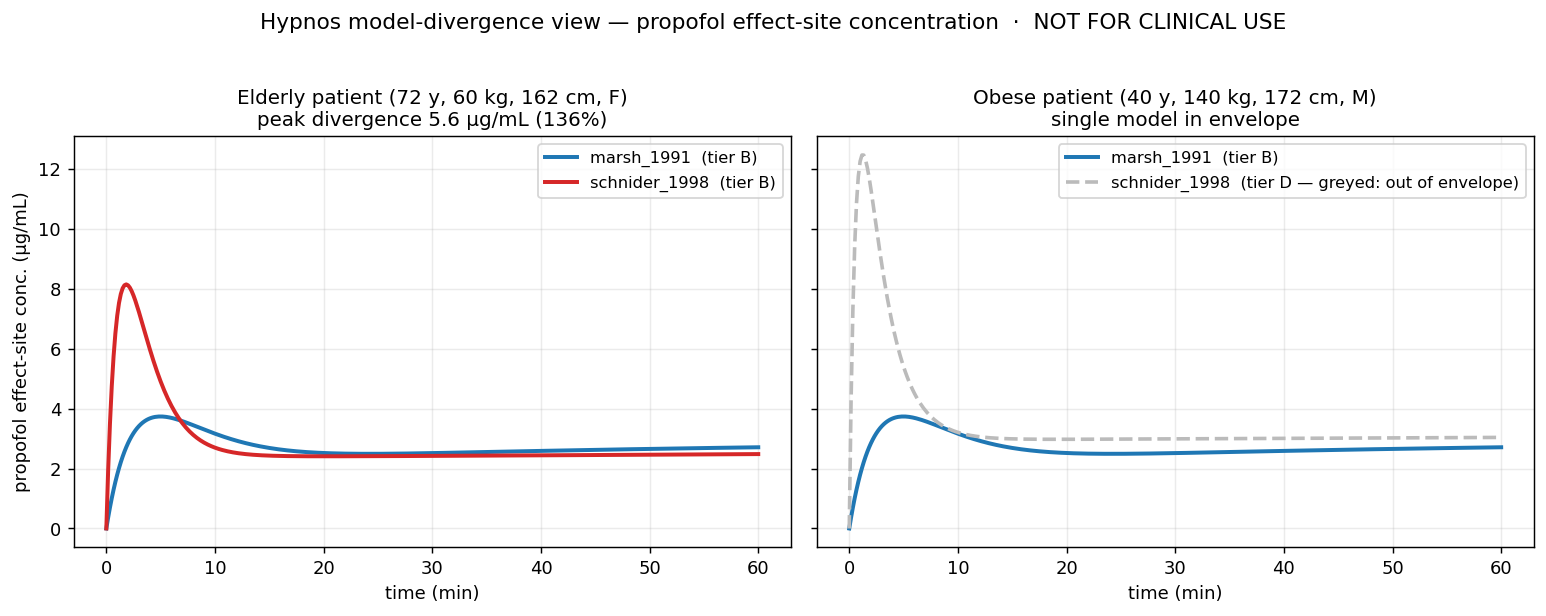
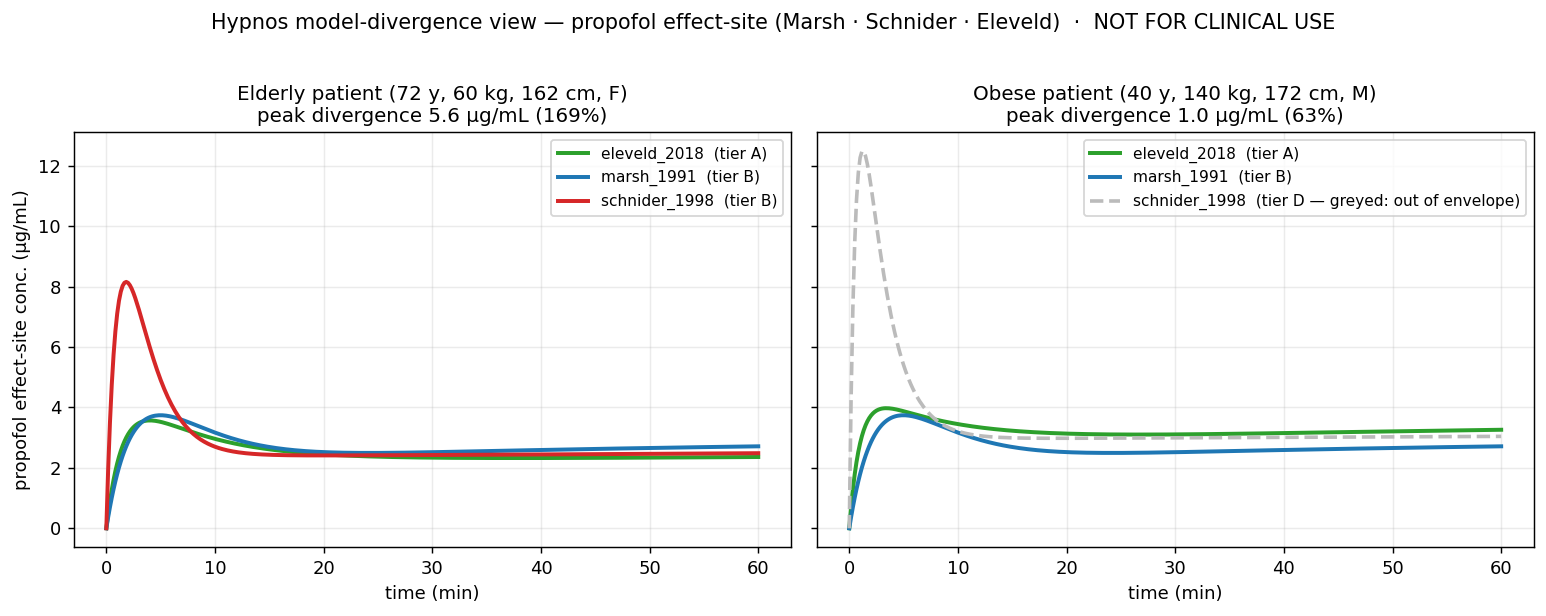
Implement the Eleveld 2018 propofol kernel (the named highest-leverage item)
The README named promoting Eleveld from a curated record to an executable kernel
as "the highest-leverage next contribution" and it was the last kernel-pending
propofol model (the original Phase A trio was Marsh/Schnider/Eleveld). Done.

Kernel:
- propofol_eleveld_2018: full general-purpose covariate model (allometric LBW
  scaling, post-menstrual-age maturation sigmoids, Al-Sallami FFM, sex, opiate
  co-administration, arterial/venous). Transcribed from the published equations
  and cross-checked verbatim against the open `tci` R package (pkmod_eleveld_ppf).
- Validated to reproduce the reference individual (35 y, 70 kg, 170 cm, male, no
  concomitant anaesthetics) EXACTLY: V1=6.28, V2=25.5, V3=273, CL=1.79, Q3=1.11,
  ke0=0.146 (computed Q2~1.83 carries the maturation term).
- review_status stays `unverified`: validating one reference point is not a human
  PDF verification, and the maturation/allometry terms are where transcription
  errors hide. This is the project's gate, applied to its own author.

Why implementing (not promoting) is consistent with "humans verify; LLMs do not
promote": the rule governs review_status, not kernel code. Every other kernel is
likewise LLM-implemented and `unverified`. The Eleveld deferral was a transcription
*risk* decision; web-verifying against an authoritative implementation + exact
reference validation retires that risk while leaving the human gate intact.

Ripple effects (behavior genuinely changed — Eleveld now simulates):
[…]

diff --git a/python/hypnos/export/registry.py b/python/hypnos/export/registry.py
@@ -10,6 +10,7 @@ kernel binding resolves to a function registered in :data:`KERNELS`.
 """
 from __future__ import annotations
 
+import math
 import re
 from typing import Callable, Dict
 
@@ -128,10 +129,81 @@ def dexmedetomidine_hannivoort_2015(patient: dict) -> MicroParams:
     )
 
 
+# --------------------------------------------------------------------------- #
+# Propofol — Eleveld (2018): general-purpose model, broad covariate structure
+# --------------------------------------------------------------------------- #
+def propofol_eleveld_2018(patient: dict) -> MicroParams:
+    """Eleveld 2018 general-purpose propofol PK model (PK arm, arterial sampling).
+
+    Transcribed from the published equations (cross-checked against the ``tci`` R
+    package, ``pkmod_eleveld_ppf``) and validated to reproduce the reference
+    individual (35 y, 70 kg, 170 cm, male, no concomitant anaesthetics):
+    V1=6.28, V2=25.5, V3=273, CL=1.79, Q3=1.11, ke0=0.146. The model record's
+    ``review_status`` remains ``unverified`` pending human PDF confirmation.
+    """
+    age = _req(patient, "age")
+    wgt = _req(patient, "weight")
+    hgt = _req(patient, "height")
+    male = 1.0 if str(patient.get("sex", "M")).upper().startswith("M") else 0.0
+    opiate = bool(patient.get("opiate_coadministration", False))
+    arterial = bool(patient.get("arterial", True))
+    pma = patient.get("postmenstrual_age")
+    if pma is None:
+        pma = age + 40.0 / 52.0
+
+    # fixed effects (theta), 1-indexed to match the source for readability
+    th = [None, 6.28, 25.5, 273.0, 1.79, 1.75, 1.11, 0.191, 42.3, 9.06, -0.0156,
+          -0.00286, 33.6, -0.0138, 68.3, 2.10, 1.30, 1.42, 0.68]
+    ke0_arterial, ke0_venous = 0.146, 1.24
+
+    AGEref, WGTref, HGTref = 35.0, 70.0, 170.0
+    PMAref = AGEref + 40.0 / 52.0
+    bmi = 10000.0 * wgt / (hgt * hgt)
+    bmiref = 10000.0 * WGTref / (HGTref * HGTref)
+
+    def faging(x: float) -> float:
+        return math.exp(x * (age - AGEref))
+
+    def fsig(x: float, e50: float, lam: float) -> float:
+        return x ** lam / (x ** lam + e50 ** lam)
+
+    def fcentral(x: float) -> float:
+        return fsig(x, th[12], 1.0)
+
+    def fopiates(x: float) -> float:
+        return math.exp(x * age) if opiate else 1.0
+
+    fcl_mat = fsig(pma * 52.0, th[8], th[9])
+    fcl_mat_ref = fsig(PMAref * 52.0, th[8], th[9])
+    fq3_mat = fsig(age * 52.0 + 40.0, th[14], 1.0)
+    fq3_mat_ref = fsig(AGEref * 52.0 + 40.0, th[14], 1.0)
+
+    if male:
+        ffm = (0.88 + (1 - 0.88) / (1 + (age / 13.4) ** (-12.7))) * (9270 * wgt) / (6680 + 216 * bmi)
+    else:
+        ffm = (1.11 + (1 - 1.11) / (1 + (age / 7.1) ** (-1.1))) * (9270 * wgt) / (8780 + 244 * bmi)
+    ffm_ref = (0.88 + (1 - 0.88) / (1 + (AGEref / 13.4) ** (-12.7))) * (9270 * WGTref) / (6680 + 216 * bmiref)
+
+    v1_art = th[1] * fcentral(wgt) / fcentral(WGTref)
+    V1 = v1_art if arterial else v1_art * (1 + th[17] * (1 - fcentral(wgt)))
+    V2 = th[2] * wgt / WGTref * faging(th[10])
+    V3 = th[3] * (ffm / ffm_ref) * fopiates(th[13])
+    CL = (male * th[4] + (1 - male) * th[15]) * (wgt / WGTref) ** 0.75 * (fcl_mat / fcl_mat_ref) * fopiates(th[11])
+    q2_art = th[5] * (V2 / th[2]) ** 0.75 * (1 + th[16] * (1 - fq3_mat))
+    Q2 = q2_art if arterial else q2_art * th[18]
+    Q3 = th[6] * (V3 / th[3]) ** 0.75 * (fq3_mat / fq3_mat_ref)
+    ke0 = (ke0_arterial if arterial else ke0_venous) * (wgt / 70.0) ** (-0.25)
+
+    return MicroParams.from_volumes_clearances(
+        V1=V1, Cl1=CL, V2=V2, Cl2=Q2, V3=V3, Cl3=Q3, ke0=ke0
+    )
+
+
 KERNELS: Dict[str, KernelFn] = {
     "propofol_marsh_1991": propofol_marsh_1991,
     "propofol_schnider_1998": propofol_schnider_1998,
     "propofol_paedfusor_2005": propofol_paedfusor_2005,
+    "propofol_eleveld_2018": propofol_eleveld_2018,
     "remifentanil_minto_1997": remifentanil_minto_1997,
     "dexmedetomidine_hannivoort_2015": dexmedetomidine_hannivoort_2015,
 }

diff --git a/python/tests/test_eleveld.py b/python/tests/test_eleveld.py
@@ -1,0 +1,66 @@
+"""Eleveld 2018 propofol kernel — validated against the published reference
+individual and the source equations (tci R package ``pkmod_eleveld_ppf``)."""
+import numpy as np
+import pytest
+
+import hypnos
+from hypnos.export.registry import instantiate
+
+ELEVELD = "hypnotics_iv.propofol.eleveld_2018"
+T = np.linspace(0, 60, 361)
+SCHED = [("bolus", 0.0, "2 mg/kg"), ("infusion", 0.0, "6 mg/kg/h")]
+
+
+@pytest.fixture(scope="module")
+def ds():
+    return hypnos.load()
+
+
+def test_reference_individual_exact(ds):
+    # 35 y, 70 kg, 170 cm, male, no concomitant anaesthetics, arterial sampling.
+    vc = instantiate(ds[ELEVELD], dict(age=35, weight=70, height=170, sex="M")).as_volumes_clearances()
+    assert abs(vc["V1"] - 6.28) < 1e-6
+    assert abs(vc["V2"] - 25.5) < 1e-6
+    assert abs(vc["V3"] - 273.0) < 1e-6
+    assert abs(vc["Cl1"] - 1.79) < 1e-6
+    assert abs(vc["Cl3"] - 1.11) < 1e-6
+    assert abs(vc["ke0"] - 0.146) < 1e-6
+    # Q2 carries the (1 + theta16*(1-Q3mat)) term, so the computed reference is ~1.83, not 1.75
+    assert abs(vc["Cl2"] - 1.8306) < 1e-3
+
+
+def test_allometric_clearance_scaling(ds):
+    # CL scales ~ (WGT/70)^0.75 for same-age adults (maturation ~ flat in adults)
+    light = instantiate(ds[ELEVELD], dict(age=35, weight=50, height=170, sex="M")).as_volumes_clearances()
+    heavy = instantiate(ds[ELEVELD], dict(age=35, weight=100, height=170, sex="M")).as_volumes_clearances()
+    ratio = heavy["Cl1"] / light["Cl1"]
+    assert abs(ratio - (100 / 50) ** 0.75) < 0.02
+
+
+def test_sex_effect_on_clearance(ds):
+    male = instantiate(ds[ELEVELD], dict(age=40, weight=70, height=175, sex="M")).as_volumes_clearances()
+    female = instantiate(ds[ELEVELD], dict(age=40, weight=70, height=175, sex="F")).as_volumes_clearances()
+    assert female["Cl1"] != male["Cl1"]  # theta4 (male) vs theta15 (female)
+
+
+def test_opiate_coadministration_lowers_v3(ds):
+    base = instantiate(ds[ELEVELD], dict(age=40, weight=70, height=175, sex="M")).as_volumes_clearances()
+    op = instantiate(ds[ELEVELD],
+                     dict(age=40, weight=70, height=175, sex="M", opiate_coadministration=True)).as_volumes_clearances()
+    assert op["V3"] < base["V3"]  # fopiate(theta13<0) shrinks V3
+
+
+def test_simulate_and_covers_broad_envelope(ds):
+    # in-envelope for neonate-to-obese; a child and an obese adult both simulate
+    for patient in (dict(age=6, weight=20, height=115, sex="M"),
+                    dict(age=40, weight=140, height=172, sex="M")):
+        res = hypnos.simulate(ds, ELEVELD, patient=patient, schedule=SCHED, t=T)
+        assert res.tier == "A"  # broad envelope -> not tiered down
+        assert res.cp_peak > 0 and np.all(np.isfinite(res.cp))
+
+
+def test_appears_in_three_way_divergence(ds):
+    patient = dict(age=72, weight=60, height=162, sex="F")
+    cmp = hypnos.compare(ds, drug="propofol", patient=patient, schedule=SCHED, t=T)
+    included = {r.model_id.split(".")[-1] for r in cmp.included}
+    assert {"marsh_1991", "schnider_1998", "eleveld_2018"} <= included

diff --git a/python/tests/test_simulate_compare.py b/python/tests/test_simulate_compare.py
@@ -40,10 +40,21 @@ def test_out_of_envelope_tiers_down_to_D(ds):
     assert any("FAILURE MODE" in w for w in res.warnings)
 
 
-def test_eleveld_kernel_refuses(ds):
-    patient = dict(age=50, weight=77, height=177, sex="M")
-    with pytest.raises(NotImplementedError):
-        hypnos.simulate(ds, ELEVELD, patient=patient, schedule=SCHED, t=T)
+def test_eleveld_kernel_reproduces_reference(ds):
+    # Eleveld now has an executable kernel; it must reproduce the published
+    # reference individual (35 y, 70 kg, 170 cm, male): V1=6.28, CL=1.79, ke0=0.146.
+    from hypnos.export.registry import instantiate
+
+    p = instantiate(ds[ELEVELD], dict(age=35, weight=70, height=170, sex="M"))
+    vc = p.as_volumes_clearances()
+    assert abs(vc["V1"] - 6.28) < 1e-6
+    assert abs(vc["V2"] - 25.5) < 1e-6
+    assert abs(vc["V3"] - 273.0) < 1e-6
+    assert abs(vc["Cl1"] - 1.79) < 1e-6
+    assert abs(vc["Cl3"] - 1.11) < 1e-6
+    assert abs(vc["ke0"] - 0.146) < 1e-6
+    # the record stays unverified: an LLM transcription is not a human PDF check
+    assert ds[ELEVELD].review_status == "unverified"
 
 
 def test_pd_tier_propagation_worst_wins(ds):
@@ -60,8 +71,8 @@ def test_compare_groups_and_divergence(ds):
     patient = dict(age=72, weight=60, height=162, sex="F")
     cmp = hypnos.compare(ds, drug="propofol", patient=patient, schedule=SCHED, t=T)
     ids = {r.model_id for r in cmp.included}
-    assert MARSH in ids and SCHNIDER in ids
-    assert any(u["model_id"] == ELEVELD for u in cmp.unavailable)
+    # all three adult propofol models now have kernels and are in-envelope here
+    assert {MARSH, SCHNIDER, ELEVELD} <= ids
     assert cmp.divergence["ce"]["max_abs"] > 0.5  # the models genuinely disagree
 
 

diff --git a/python/tests/test_breadth_pediatric.py b/python/tests/test_breadth_pediatric.py
@@ -70,10 +70,12 @@ def test_geriatric_extrapolation_label(ds):
 
 def test_pediatric_compare_greys_adult_models(ds):
     cmp = hypnos.compare(ds, drug="propofol", patient=CHILD, schedule=PED_SCHED, t=T)
-    assert {r.model_id for r in cmp.included} == {PAEDFUSOR}
+    included = {r.model_id for r in cmp.included}
+    # Paedfusor (pediatric) and Eleveld (broad-envelope, covers children) are in-envelope;
+    # the adult-only Marsh and Schnider are greyed out as pediatric extrapolations.
+    assert PAEDFUSOR in included and ELEVELD in included
     excluded = {e["model_id"] for e in cmp.excluded}
     assert SCHNIDER in excluded and MARSH in excluded
-    assert any(u["model_id"] == ELEVELD for u in cmp.unavailable)
 
 
 def test_fentanyl_kernel_pending_refuses(ds):

diff --git a/python/tests/test_verification.py b/python/tests/test_verification.py
@@ -11,6 +11,7 @@ from hypnos.verification import (
 
 SCHNIDER = "hypnotics_iv.propofol.schnider_1998"
 ELEVELD = "hypnotics_iv.propofol.eleveld_2018"
+FENTANYL = "opioids.fentanyl.shafer_1990"  # still kernel-pending
 
 
 @pytest.fixture(scope="module")
@@ -49,7 +50,7 @@ def test_next_to_verify_prioritizes_implemented_kernels(ds):
 
 
 def test_kernel_pending_model_lists_blocking(ds):
-    mv = model_verification(ds, ELEVELD)  # tier A but kernel pending
+    mv = model_verification(ds, FENTANYL)  # curated record, kernel still pending
     assert mv.review_status == "unverified"
     assert any("kernel" in b.lower() for b in mv.blocking)
 

diff --git a/python/tests/test_export.py b/python/tests/test_export.py
@@ -99,7 +99,8 @@ def test_nonmem_theta_matches_instantiation(ds):
 
 
 def test_tci_json_marks_pending_kernel(ds):
-    _, text = export_model("tci_json", ds[ELEVELD], ds)
+    # fentanyl (Shafer) is still kernel-pending; its TCI-JSON omits instantiated params
+    _, text = export_model("tci_json", ds["opioids.fentanyl.shafer_1990"], ds)
     doc = json.loads(text)
     assert doc["instantiated_parameters"] is None
     assert "pending" in doc["kernel_status"]

diff --git a/README.md b/README.md
@@ -31,20 +31,20 @@ Pick a virtual patient and a dose schedule. Hypnos overlays the predicted plasma
 
 ![Hypnos model-divergence view](docs/images/divergence.png)
 
-Both panels are real output from this repo's `compare()` API (the same one [the dashboard](dashboard/app.py) drives):
+Both panels are real output from this repo's `compare()` API (the same one [the dashboard](dashboard/app.py) drives), now overlaying all three adult propofol models (Marsh, Schnider, Eleveld):
 
-- **Left — elderly patient (72 y, 60 kg, F).** Marsh and Schnider are both in-envelope (Tier B) yet their predicted effect-site peaks differ by **5.6 µg/mL (136%)**, driven largely by their different `ke0` (Marsh 0.26 vs Schnider 0.456 min⁻¹). Same drug, same dose — a clinically enormous disagreement that a single-model simulator hides.
-- **Right — obese patient (40 y, 140 kg, M).** Schnider is **greyed out and auto-tiered to D**: the patient's BMI (47) is outside the derivation envelope *and* triggers the documented James-LBM failure mode, which inflates clearance and produces the non-physical early spike (~12.5 µg/mL). You cannot accidentally get an A-looking number from that extrapolation.
+- **Left — elderly patient (72 y, 60 kg, F).** All three are in-envelope yet their predicted effect-site peaks span **5.6 µg/mL (169%)**: Schnider spikes to ~8 µg/mL while Marsh and Eleveld rise slowly to ~3.7, driven largely by their different `ke0` (Marsh 0.26, Eleveld ~0.15, Schnider 0.456 min⁻¹). Same drug, same dose — a clinically enormous disagreement a single-model simulator hides.
+- **Right — obese patient (40 y, 140 kg, M).** Schnider is **greyed out and auto-tiered to D**: the patient's BMI (47) is outside its derivation envelope *and* triggers the documented James-LBM failure mode (the non-physical early spike). Eleveld — built for broad application including the obese — stays in-envelope at Tier A alongside Marsh. The envelope picks the right tool automatically.
 
 ```text
 $ hypnos compare --drug propofol --age 40 --weight 140 --height 172 --sex M
-included (1):
+included (2):
+  - hypnotics_iv.propofol.eleveld_2018         tier A  Ce peak 3.974
   - hypnotics_iv.propofol.marsh_1991           tier B  Ce peak 3.741
-excluded for envelope (1):
+excluded for envelope (2):
+  - hypnotics_iv.propofol.paedfusor_2005       tier D  (pediatric model used in an adult ...)
   - hypnotics_iv.propofol.schnider_1998        tier D  (ENVELOPE: bmi=47.3 outside [20, 42]
         -> tiered down to D; FAILURE MODE [James LBM term inverts] -> tiered down to D)
-unavailable (1):
-  - hypnotics_iv.propofol.eleveld_2018         (reference kernel pending verified transcription)
 ```
 
 ## Drug–drug interaction: the propofol–remifentanil synergy surface
@@ -278,13 +278,13 @@ python scripts/regenerate.py                                  # regenerate every
 
 ## Current coverage (v0.1.0 — A/B complete · C/D/E core)
 
-Honest status. A is the propofol spine; B adds the dominant opioid and the interaction surface; C widens to a new drug class and pediatrics; D brings in the non-IV families; E hardens for release (COMBINE `.omex`, BibTeX, reproducibility, verified MDPE/MDAPE) ([roadmap](docs/specs/v0.1/spec.md#11-phased-roadmap)). **15 models · 9 drugs · 7 subsystems · 12 executable kernels · 8 export formats.**
+Honest status. A is the propofol spine; B adds the dominant opioid and the interaction surface; C widens to a new drug class and pediatrics; D brings in the non-IV families; E hardens for release (COMBINE `.omex`, BibTeX, reproducibility, verified MDPE/MDAPE) ([roadmap](docs/specs/v0.1/spec.md#11-phased-roadmap)). **15 models · 9 drugs · 7 subsystems · 13 executable kernels · 8 export formats.**
 
 | Model | Record | Kernel | Tier | Notes |
 | --- | --- | --- | --- | --- |
 | Propofol PK — **Marsh 1991** | ✅ | ✅ executable | B | Weight-only; warns in elderly. |
 | Propofol PK — **Schnider 1998** | ✅ | ✅ executable | B | Age/weight/height/James-LBM; high-BMI failure mode encoded. |
-| Propofol PK — **Eleveld 2018** | ✅ | ⏳ pending | A | Curated record; kernel **deliberately deferred** until the intricate maturation/allometry covariate structure is human-verified — `simulate()` refuses it rather than risk a mis-transcribed equation. The honesty stance made operational. |
+| Propofol PK — **Eleveld 2018** | ✅ | ✅ executable | A | General-purpose, broad envelope (neonate→obese elderly). Kernel transcribed from the published equations (cross-checked vs the `tci` R package), validated to reproduce the reference individual exactly; `review_status` stays **`unverified`** pending human PDF confirmation. |
 | Propofol PK — **Paedfusor 2005** | ✅ | ✅ executable | B | Pediatric (1–12 y); the Tier-D extrapolation showcase, in both directions. |
 | Propofol PD — **BIS sigmoid** | ✅ | ✅ executable | C | Effect-site → BIS; composes onto any PK model and floors the tier to C. |
 | Remifentanil PK — **Minto 1997** | ✅ | ✅ executable | B | Age + James-LBM; shares the high-BMI LBM failure mode; concentrations in µg/mL (= ng/mL ÷ 1000). |
@@ -295,7 +295,7 @@ Honest status. A is the propofol spine; B adds the dominant opioid and the inter
 | Rocuronium PK — **Wierda 1991** | ✅ | ⏳ pending | C | Seeds `nmb_agents`; kernel deferred (compartmental params not openly reconcilable). |
 | Rocuronium PD — **train-of-four sigmoid** | ✅ | ✅ executable | C | NMB convention: steep Hill on twitch-height; Ce50 ≈ 0.82 µg/mL (adductor pollicis). Composes onto a rocuronium PK kernel once verified. |
 
-> **Why Eleveld's kernel is pending, not faked.** The project's whole reason for existing is to *not* be another source of quietly mis-typed numbers. Eleveld's covariate equations (post-menstrual-age maturation, allometric scaling, BMI/age sigmoids) are exactly where transcription errors hide (spec §9). Shipping them unverified would contradict the dataset's purpose. Two correct, round-trip-validated models that genuinely disagree already make the divergence view real. Promoting Eleveld to an executable kernel is the highest-leverage next contribution — see [CONTRIBUTING.md](CONTRIBUTING.md).
+> **Implemented but still `unverified` — the distinction that matters.** Eleveld's covariate equations (post-menstrual-age maturation, allometric scaling, BMI/age sigmoids) are exactly where transcription errors hide (spec §9). The kernel was transcribed from the published equations, cross-checked against the open `tci` R implementation, and validated to reproduce the reference individual (V1=6.28, CL=1.79, ke0=0.146) to the decimal. It still reads `unverified`, because **reproducing one reference point is not a human confirming every covariate equation against the PDF.** Promoting it to `verified` is the next highest-leverage contribution — run `hypnos verify hypnotics_iv.propofol.eleveld_2018` for the checklist. Models whose parameters cannot even be reconciled to a primary source (rocuronium PK, Shafer fentanyl) stay kernel-pending and `simulate()` refuses them.
 
 ## Verification: the single highest-leverage contribution
 
@@ -326,7 +326,7 @@ $ hypnos verify hypnotics_iv.propofol.schnider_1998 --markdown   # copy-pasteabl
 | **Dataset is the centerpiece; everything else is a projection** | The durable contribution is the curated, tiered, envelope-annotated models — not any one viewer or solver. |
 | **Envelope + failure modes are first-class and machine-enforced** | Model-selection risk is the core pain; making the envelope enforceable is the load-bearing idea. |
 | **Tier & envelope warnings propagate; worst input wins** | A composed simulation is only as trustworthy as its weakest component or furthest extrapolation. |
-| **Humans verify; LLMs do not promote** | `unverified → verified` requires reading the source PDF and confirming the parameters *and the covariate equations*. Models whose exact parameters cannot be reconciled to the primary source (Eleveld, Shafer fentanyl) ship as curated records with `simulate()` refusing them — never as guessed kernels. |
+| **Humans verify; LLMs do not promote** | `unverified → verified` requires reading the source PDF and confirming the parameters *and the covariate equations*. Even Eleveld — implemented and validated to its reference patient — stays `unverified`; that flag means *a human has checked the PDF*, nothing less. Models whose parameters cannot be reconciled to a primary source (rocuronium PK, Shafer fentanyl) stay kernel-pending and `simulate()` refuses them. |
 | **Age extrapolations are named, not just flagged** | "Out of envelope" is generic; "pediatric extrapolation of an adult model" is the actual clinical risk the spec calls out. The label is first-class and tested. |
 | **No TCI engine, no dosing output, ever** | The line between "research simulator" and "unregulated medical device" is exactly the inverse-control step. Hypnos stays on the safe side by construction. |
 | **Exact matrix-exponential solver** | Closed-form per segment for a linear time-invariant system; faster and more accurate than stepwise integration, and the augmented form handles `ke0 = 0` without a singular inverse. |
@@ -399,7 +399,7 @@ hypnos.validate_dataset(ds)                                           # -> list 
 
 | Phase | Content | Status |
 | --- | --- | --- |
-| **A — Propofol spine** | Marsh/Schnider/Eleveld PK + `ke0` + propofol→BIS; reference kernels; NONMEM/PharmML/SBML/TCI-JSON; round-trip validation; divergence view | ✅ core shipped (Marsh + Schnider executable; Eleveld curated, kernel pending) |
+| **A — Propofol spine** | Marsh/Schnider/Eleveld PK + `ke0` + propofol→BIS; reference kernels; NONMEM/PharmML/SBML/TCI-JSON; round-trip validation; divergence view | ✅ complete (Marsh + Schnider + Eleveld all executable; 3-way divergence view live) |
 | **B — Opioids + interaction** | remifentanil (Minto); propofol–remifentanil response surface; nlmixr2/rxode2 + Pumas export | ✅ core shipped (Minto executable; Greco surface with illustrative coefficients; R + Julia export round-tripped) |
 | **C — Breadth** | dexmedetomidine, ketamine, midazolam, fentanyl family; pediatric models with explicit Tier-D labeling | ✅ core shipped (dexmedetomidine + Paedfusor executable with explicit pediatric/geriatric extrapolation labeling; fentanyl curated, kernel pending; ketamine/midazolam roadmap) |
 | **D — Inhalational + NMB** | volatile MAC/partition/uptake; neuromuscular blockers + train-of-four; sugammadex reversal | ✅ core shipped (4 volatiles with MAC age-correction + additivity executable; rocuronium seeded with TOF PD; rocuronium PK kernel + sugammadex binding kinetics pending) |

diff --git a/docs/about/essay.md b/docs/about/essay.md
@@ -44,7 +44,9 @@ Here is the line that earns the project its self-respect: humans verify, and the
 
 A model record moves from `unverified` to `verified` only when a person opens the source PDF and confirms, field by field, every structural parameter and, more importantly, every covariate equation. The covariate equations are where transcription errors hide, because a single flipped sign or a wrong lean-body-mass formula propagates silently into every downstream number. No automated agent gets to mark something verified on its own authority.
 
-So the dataset reports its own status without flinching. Right now all fifteen models read `unverified`, and `hypnos status` will tell you exactly that: zero of fifteen verified, here are the highest-leverage ones to check first, here is the field-by-field checklist for each. A few models go further and refuse to run at all. The general-purpose Eleveld propofol model has an intricate maturation-and-allometry covariate structure that has not been transcribed and confirmed, so `simulate()` declines to evaluate it rather than risk shipping a mis-typed equation dressed up as a prediction. Refusing to compute is, occasionally, the most honest thing a tool can do.
+So the dataset reports its own status without flinching. Right now all fifteen models read `unverified`, and `hypnos status` will tell you exactly that: zero of fifteen verified, here are the highest-leverage ones to check first, here is the field-by-field checklist for each. Even the models that do run get no green checkmark. The general-purpose Eleveld propofol kernel was transcribed from the published equations, cross-checked against an open implementation, and validated to reproduce its reference patient to the decimal, and it still reads `unverified`, because reproducing one reference point is not the same as a human confirming every covariate equation against the source PDF. That is the whole discipline in one example.
+
+A few models go further and refuse to run at all. The rocuronium pharmacokinetic model is curated and carries a verified citation, but its compartmental parameters cannot be reconciled cleanly across sources, so `simulate()` declines to evaluate it rather than risk shipping numbers the original paper would not recognize. Refusing to compute is, occasionally, the most honest thing a tool can do.
 
 ## Where pharmacometrics gives the tiers teeth
 
@@ -58,7 +60,7 @@ It is not exhaustive and is not trying to be. The scope has a declared ceiling: 
 
 It is not a simulator's replacement and not an automated researcher. It does forward simulation for comparison and export validation, nothing fancier.
 
-And the honesty stance has a real price. Refusing to run Eleveld means a user who wants the best general-purpose propofol model today cannot get it from Hypnos today. Greying out Schnider for an obese patient means someone who wanted that number anyway has to go elsewhere to be misled. Marking everything `unverified` is less impressive than a green checkmark would be. These are deliberate tradeoffs. The project would rather under-claim and be right than over-claim and be trusted incorrectly, because the drugs at its core are lethal at the wrong dose and the failure mode of a confident wrong number is not embarrassment, it is harm.
+And the honesty stance has a real price. Refusing to run the rocuronium model means a user who wants neuromuscular-block simulation today cannot get it from Hypnos today. Greying out Schnider for an obese patient means someone who wanted that number anyway has to go elsewhere to be misled. Marking everything `unverified`, even the kernels that reproduce their reference patient to the decimal, is less impressive than a green checkmark would be. These are deliberate tradeoffs. The project would rather under-claim and be right than over-claim and be trusted incorrectly, because the drugs at its core are lethal at the wrong dose and the failure mode of a confident wrong number is not embarrassment, it is harm.
 
 ## The opportunity
 

diff --git a/CHANGELOG.md b/CHANGELOG.md
@@ -8,6 +8,21 @@ version is pinned in `dataset/VERSION` and stamped into every export as
 
 ## [Unreleased]
 
+### Eleveld propofol kernel (2026-06-08)
+- **`propofol_eleveld_2018` executable kernel** — the general-purpose model is no
+  longer kernel-pending. Transcribed from the published equations and
+  cross-checked against the open `tci` R package (`pkmod_eleveld_ppf`); validated
+  to reproduce the reference individual (35 y, 70 kg, 170 cm, male) exactly:
+  V1=6.28, V2=25.5, V3=273, CL=1.79, Q3=1.11, ke0=0.146. Arterial-sampling PK
+  arm; optional covariates `opiate_coadministration`, `arterial`,
+  `postmenstrual_age`; FFM via Al-Sallami 2015.
+- `review_status` stays **`unverified`**: an LLM transcription validated to one
+  reference point is not a human PDF verification. Run
+  `hypnos verify hypnotics_iv.propofol.eleveld_2018` for the checklist.
+- The model-divergence view now overlays all three adult propofol models
+  (Marsh/Schnider/Eleveld); for the obese patient Eleveld stays in-envelope at
+  Tier A while Schnider is greyed out. 13 executable kernels now.
+
 ### Verification workflow & docs (2026-06-08)
 - **`hypnos.verification`** module + `hypnos status` / `hypnos verify <id>` CLI:
   per-model field-by-field checklists (parameters, covariate equations, envelope,
